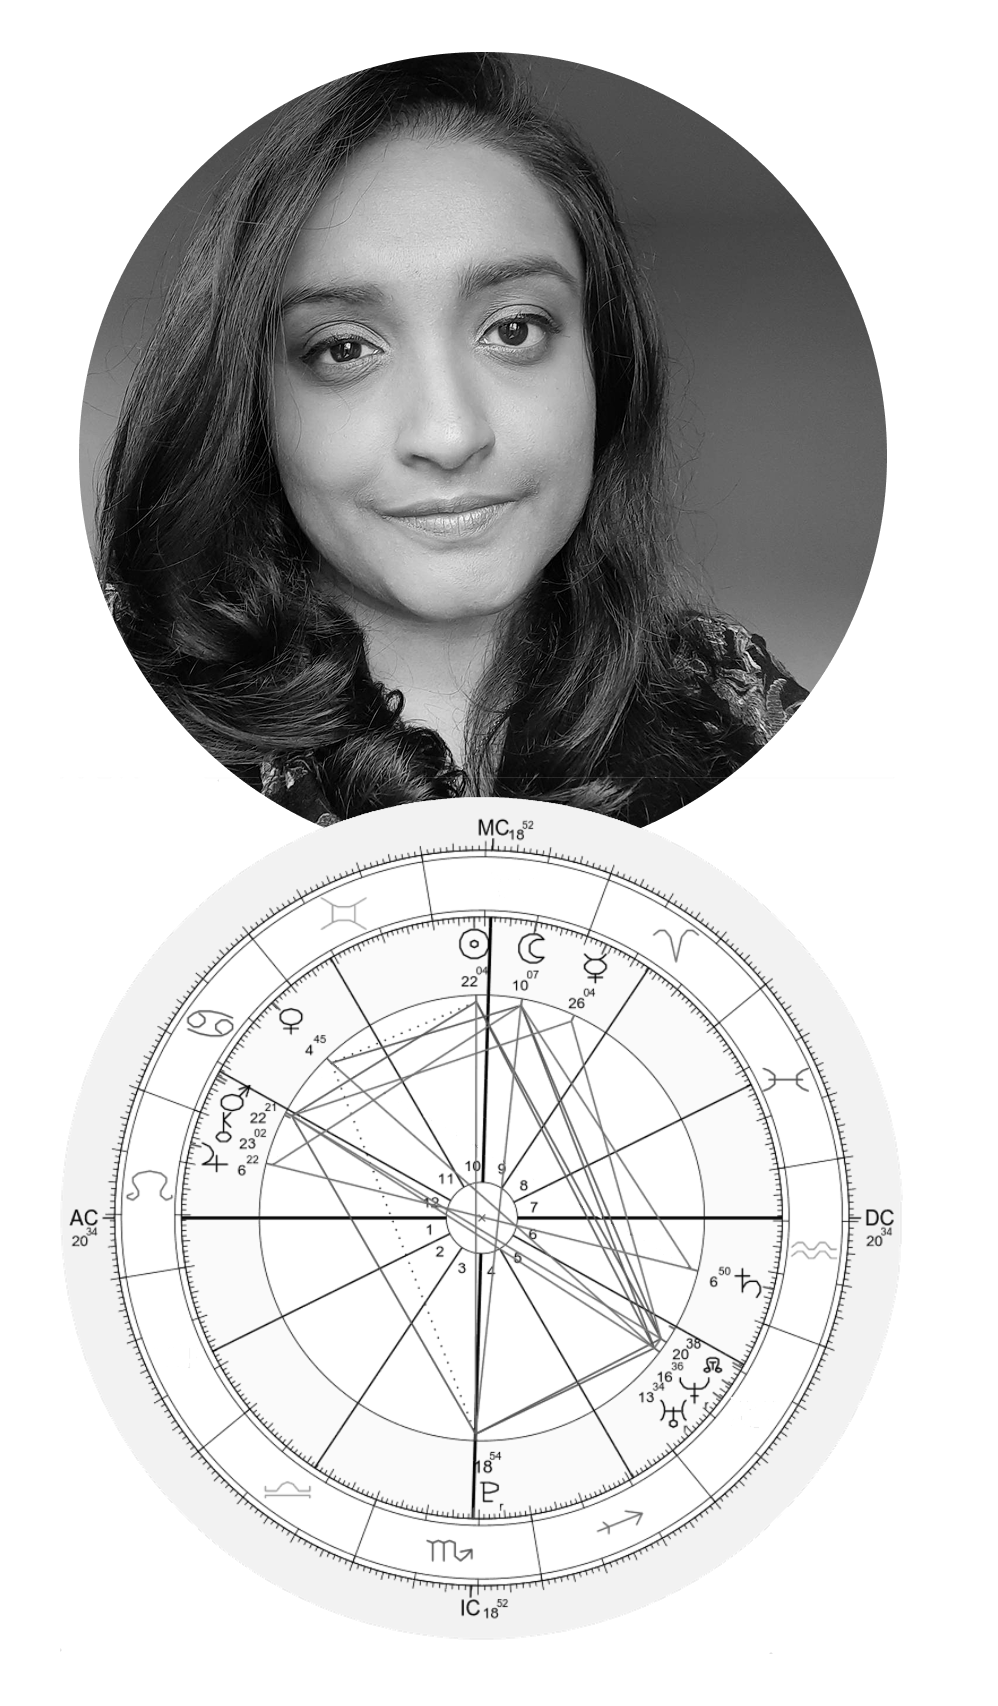
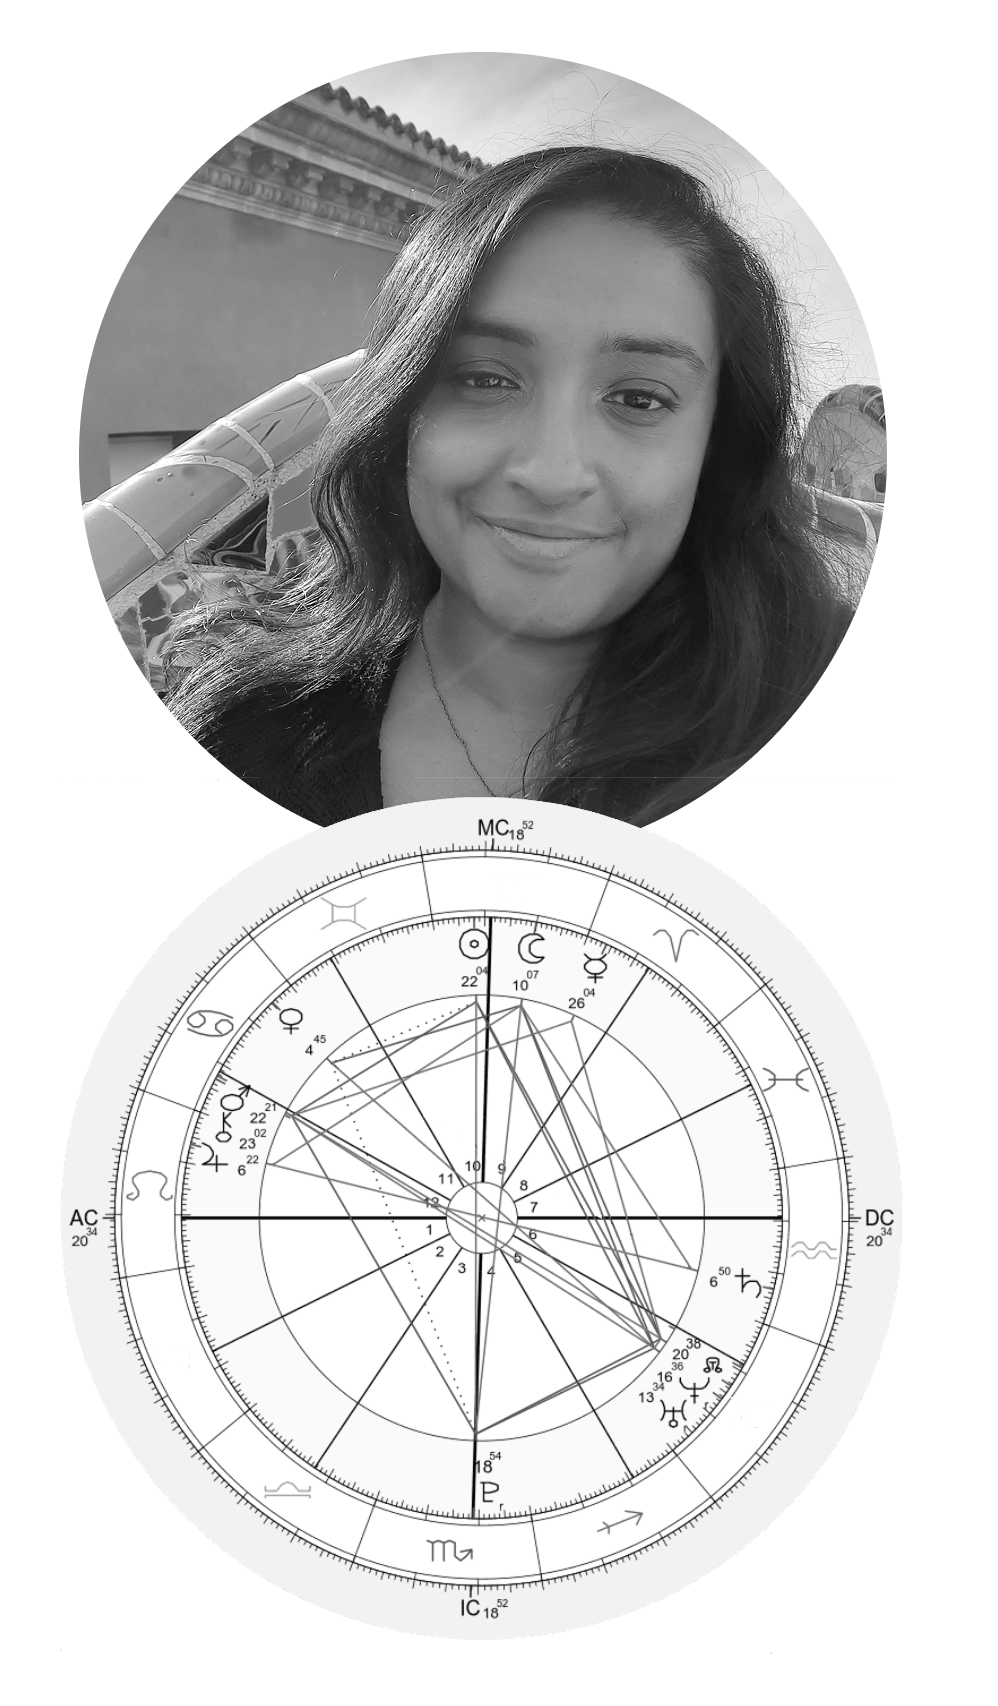
added photo to site

Changed region(s): [[0.0621, 0.0311, 0.9008, 0.4971]]

diff --git a/src/pages/HomePage/HomePage.tsx b/src/pages/HomePage/HomePage.tsx
@@ -6,6 +6,7 @@ import FadeInSection from "@/components/FadeInSection/FadeInSection";
 import Footer from "@/components/Footer/Footer";
 
 import background_home2 from "@/assets/background_home2.svg";
+import headshot from "@/assets/headshot.jpg";
 import "./HomePage.scss";
 
 const HomePage = () => {
@@ -47,9 +48,10 @@ const HomePage = () => {
                 style={{ border: "none" }}
               >
                 <div className="title-container">
-                  <h2>About</h2>
+                  <img src={headshot}></img>
                 </div>
                 <div className="text-container">
+                  <h2>About</h2>
                   <p>
                     I am a astrologer with a passion for helping people gain
                     insight into their lives through the ancient science of

diff --git a/src/pages/HomePage/HomePage.scss b/src/pages/HomePage/HomePage.scss
@@ -99,10 +99,13 @@
 
     .section-content {
       .title-container {
-        width: 30%;
+        width: 40%;
+        img {
+          width: 700px;
+        }
       }
       .text-container {
-        width: 70%;
+        width: 50%;
       }
     }
 
@@ -211,12 +214,12 @@
     .section-body {
       .section-content {
         .title-container {
-          width: 80%;
+          width: 30%;
         }
         .text-container {
           display: flex;
           flex-direction: column;
-          width: 80%;
+          width: 70%;
 
           a {
             align-self: center;
